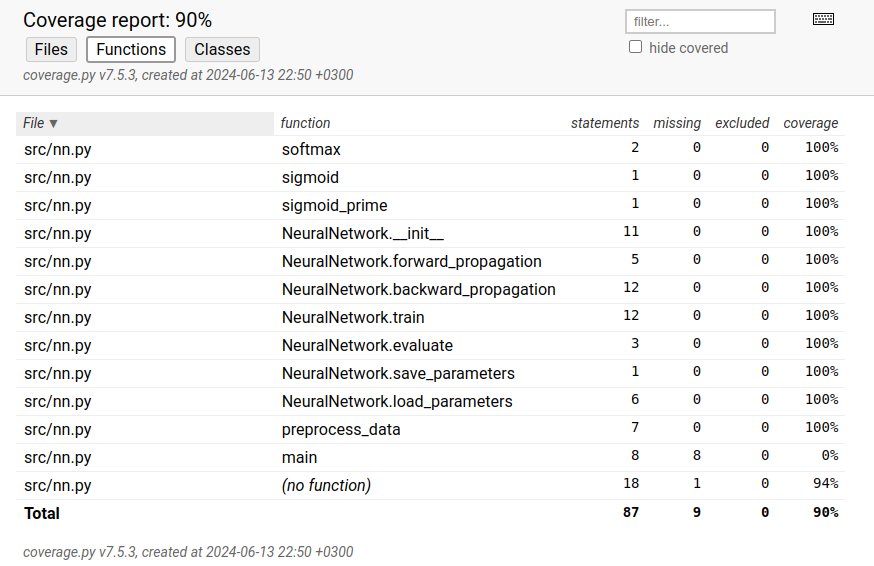
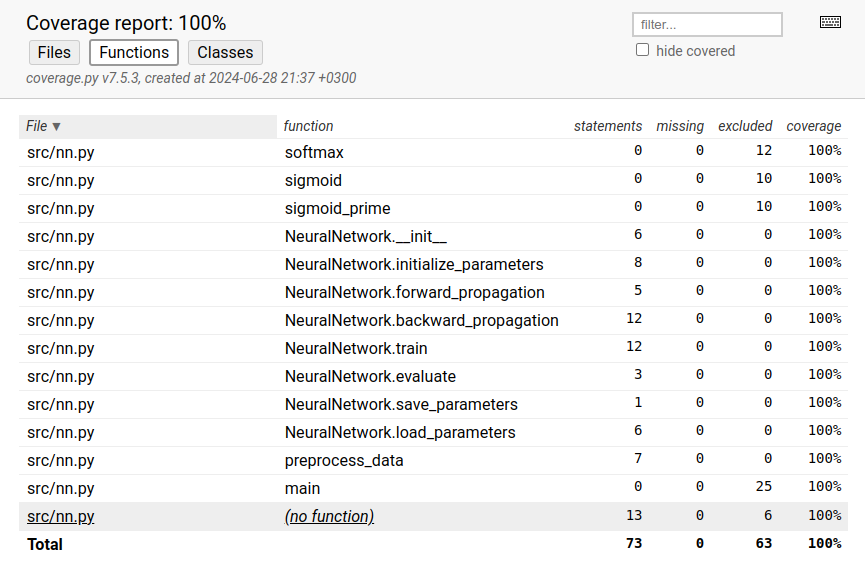
Update documentation

diff --git a/dokumentaatio/testausdokumentti.md b/dokumentaatio/testausdokumentti.md
@@ -2,7 +2,7 @@
 
 ### Yksikkötestit
 
-Yksikkötesteissä käytetään unittest-kirjastoa. Automaattisilla testeillä testataan src/nn.py. Käyttöliittymän koodi on jätetty testien ulkopuolelle. Testikattavuus on tällä hetkellä 90%, kattaen main-funktiota lukuunottamatta muut funktiot.  
+Yksikkötesteissä käytetään unittest-kirjastoa. Automaattisilla testeillä testataan src/nn.py. Käyttöliittymän koodi on jätetty testien ulkopuolelle. Testikattavuus on 100% kattaen aktivaatiofunktioita ja main-funktiota lukuunottamatta muut funktiot.  
 
 ![Kattavuusraportti](coverage_report.png)
 
@@ -29,4 +29,18 @@ Tämä osoittaa deterministisen datan käsittelyn.
 
 ### Neuroverkon tarkkuus
 
-Neuroverkon tarkkuus tämänhetkisellä arkkitehtuurilla on noin 96-97%. Piilokerroksen neuronien määrää kasvattamalla olen saanut tarkkuuden nousemaan 98%:in. Saavutettu tarkkuus viittaa siihen, että neuroverkossa tapahtuu oikeita asioita.
+Neuroverkon tarkkuus tämänhetkisellä arkkitehtuurilla (input-kerros 748 neuronia, piilokerros 30 neuronia ja output-kerros 10 neuronia) on noin 96-97%. Piilokerroksen neuronien määrää kasvattamalla olen saanut tarkkuuden nousemaan 98%:in. Saavutettu luokittelutarkkuus viittaa siihen, että neuroverkossa tapahtuu oikeita asioita.
+
+
+### Testien toistaminen
+
+Testit voi suorittaa projektin juurikansiossa komennolla
+
+```bash
+pytest
+```
+
+Aja testikattavuusraportti komennolla
+```bash
+coverage report -m --include=src/nn.py
+```

diff --git a/dokumentaatio/käyttöohje.md b/dokumentaatio/käyttöohje.md
@@ -46,6 +46,13 @@ python3 app.py
 
 ### 7. Aja testit
 
+Suorita testit komennolla
+
 ```bash
 pytest
 ```
+Aja testikattavuusraportti komennolla
+```bash
+coverage report -m --include=src/nn.py
+```
+
